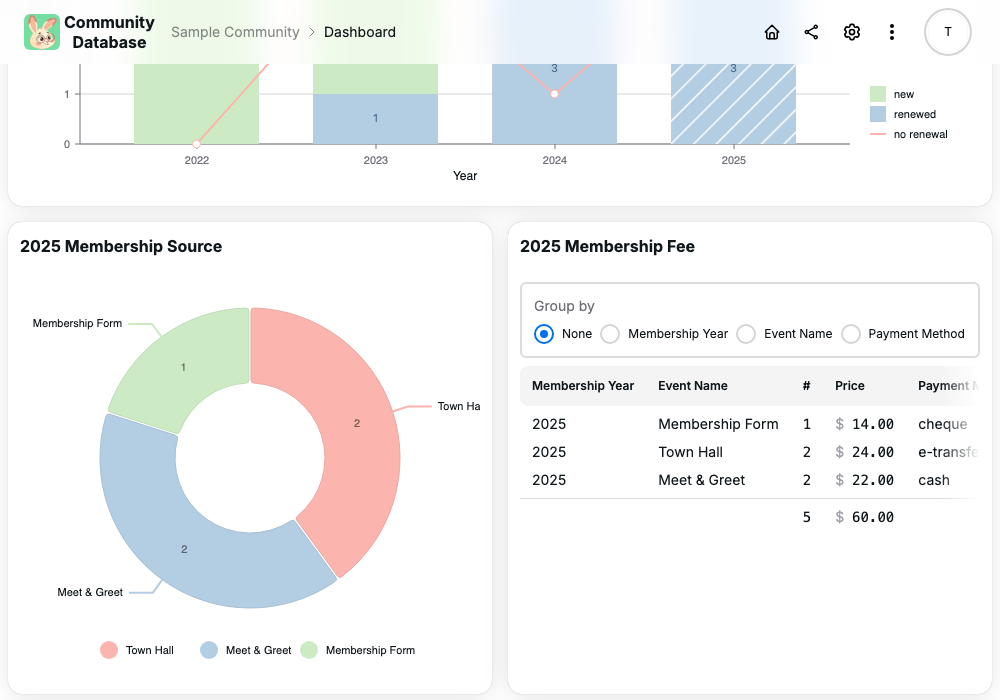
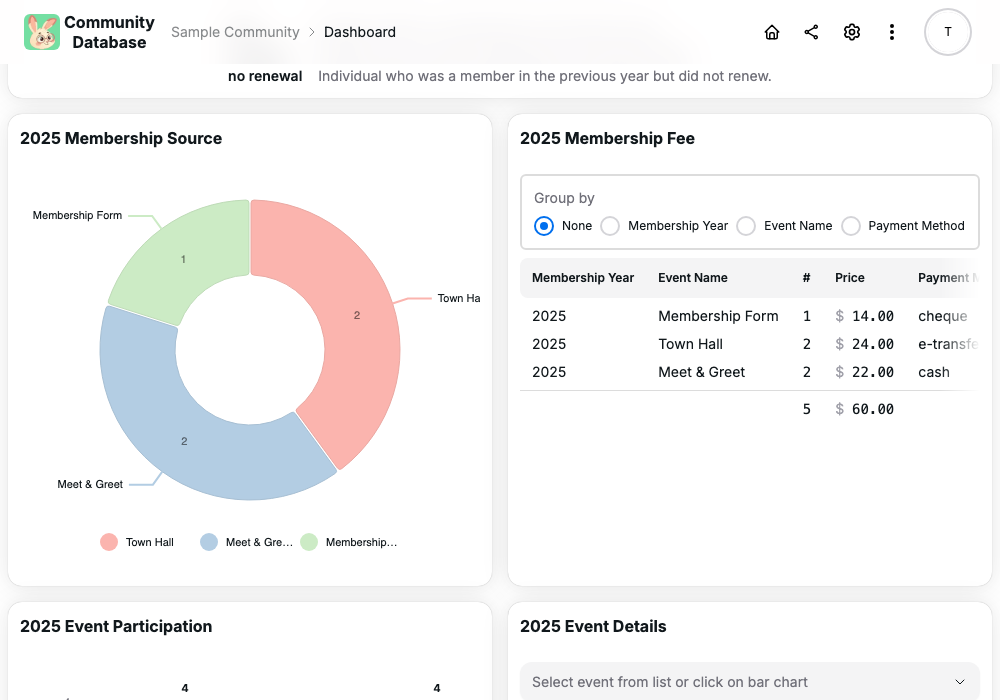
fix: update dashboard screenshots

diff --git a/tests/screenshot/landing.ts b/tests/screenshot/landing.ts
@@ -155,7 +155,7 @@ test.describe.serial('Take @screenshot for landing screen', () => {
     }
 
     // Scroll down and take screenshot
-    await page.evaluate(() => window.scrollBy(0, 370));
+    await page.evaluate(() => window.scrollBy(0, 570));
     await takeScreenshot(page, theme, 'dashboard');
   });
 
